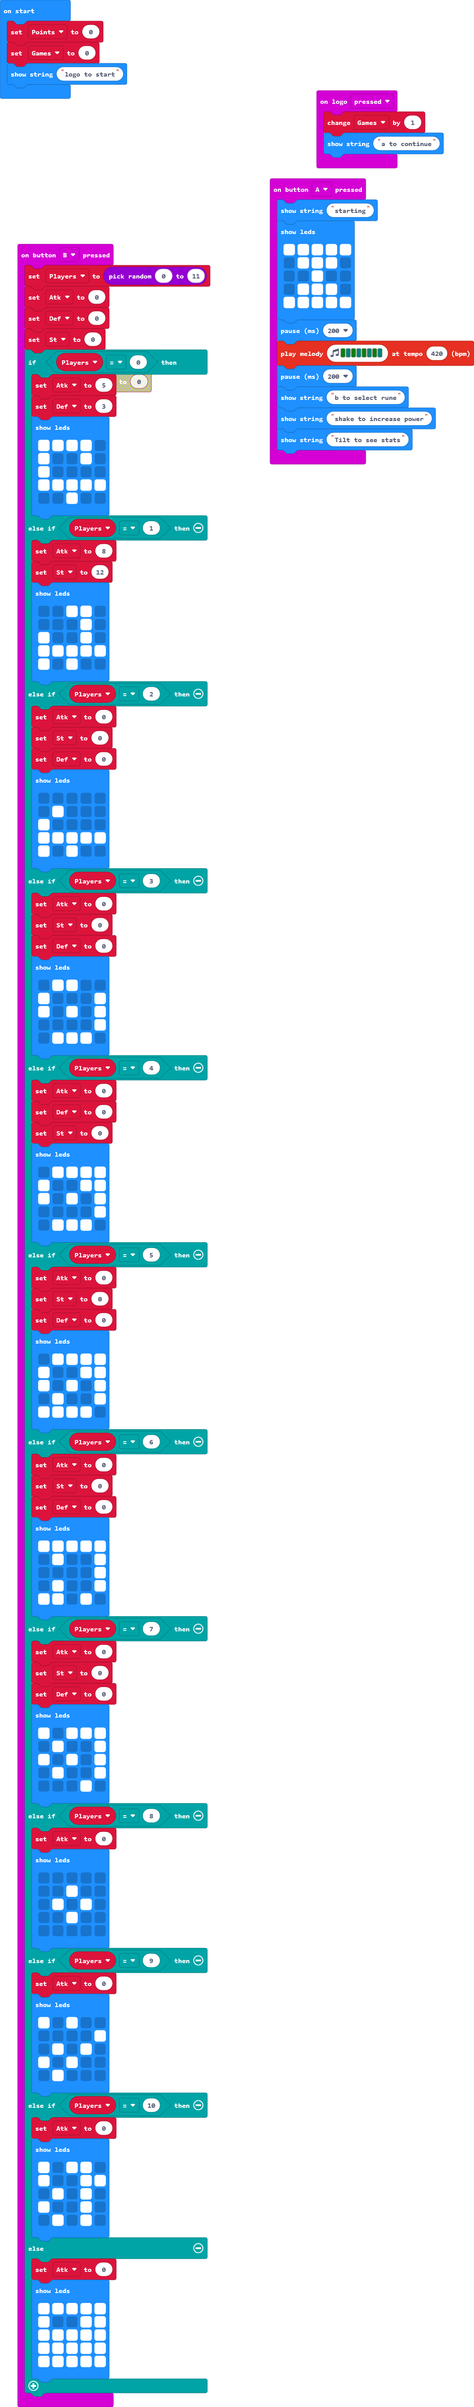
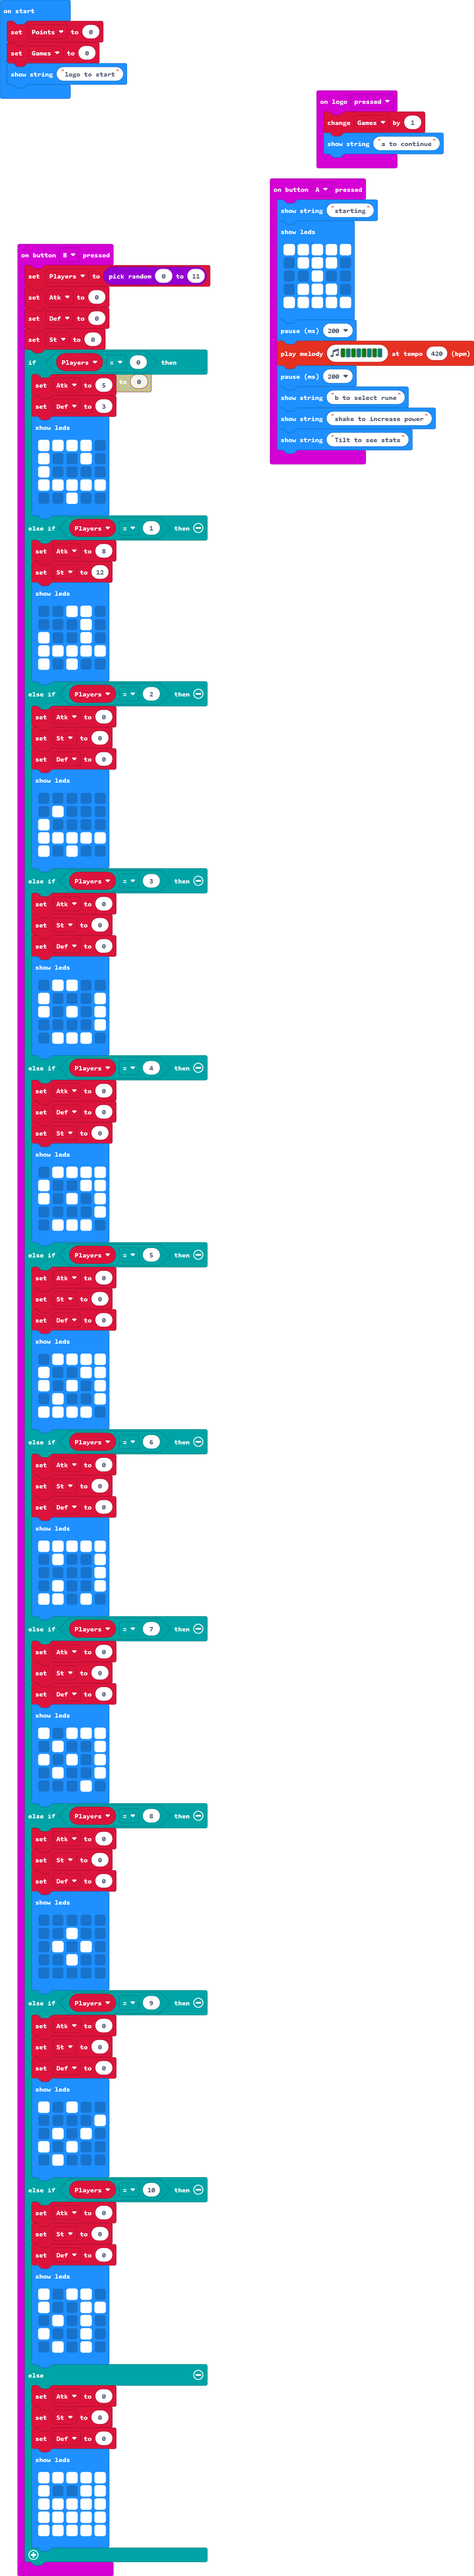
Finished addding Base stats customise might come probably not

Changed region(s): [[0.0306, 0.0932, 0.4592, 1.0], [0.5816, 0.0311, 1.0, 0.2175], [0.0, 0.0, 0.2449, 0.0621]]

diff --git a/main.ts b/main.ts
@@ -107,6 +107,8 @@ input.onButtonPressed(Button.B, function () {
             `)
     } else if (Players == 8) {
         Atk = 0
+        St = 0
+        Def = 0
         basic.showLeds(`
             . . . . .
             . . # . .
@@ -116,6 +118,8 @@ input.onButtonPressed(Button.B, function () {
             `)
     } else if (Players == 9) {
         Atk = 0
+        St = 0
+        Def = 0
         basic.showLeds(`
             # . # . .
             . . . . #
@@ -125,6 +129,8 @@ input.onButtonPressed(Button.B, function () {
             `)
     } else if (Players == 10) {
         Atk = 0
+        St = 0
+        Def = 0
         basic.showLeds(`
             # . # # .
             # . . # #
@@ -134,6 +140,8 @@ input.onButtonPressed(Button.B, function () {
             `)
     } else {
         Atk = 0
+        St = 0
+        Def = 0
         basic.showLeds(`
             # # # # #
             # . . # #
